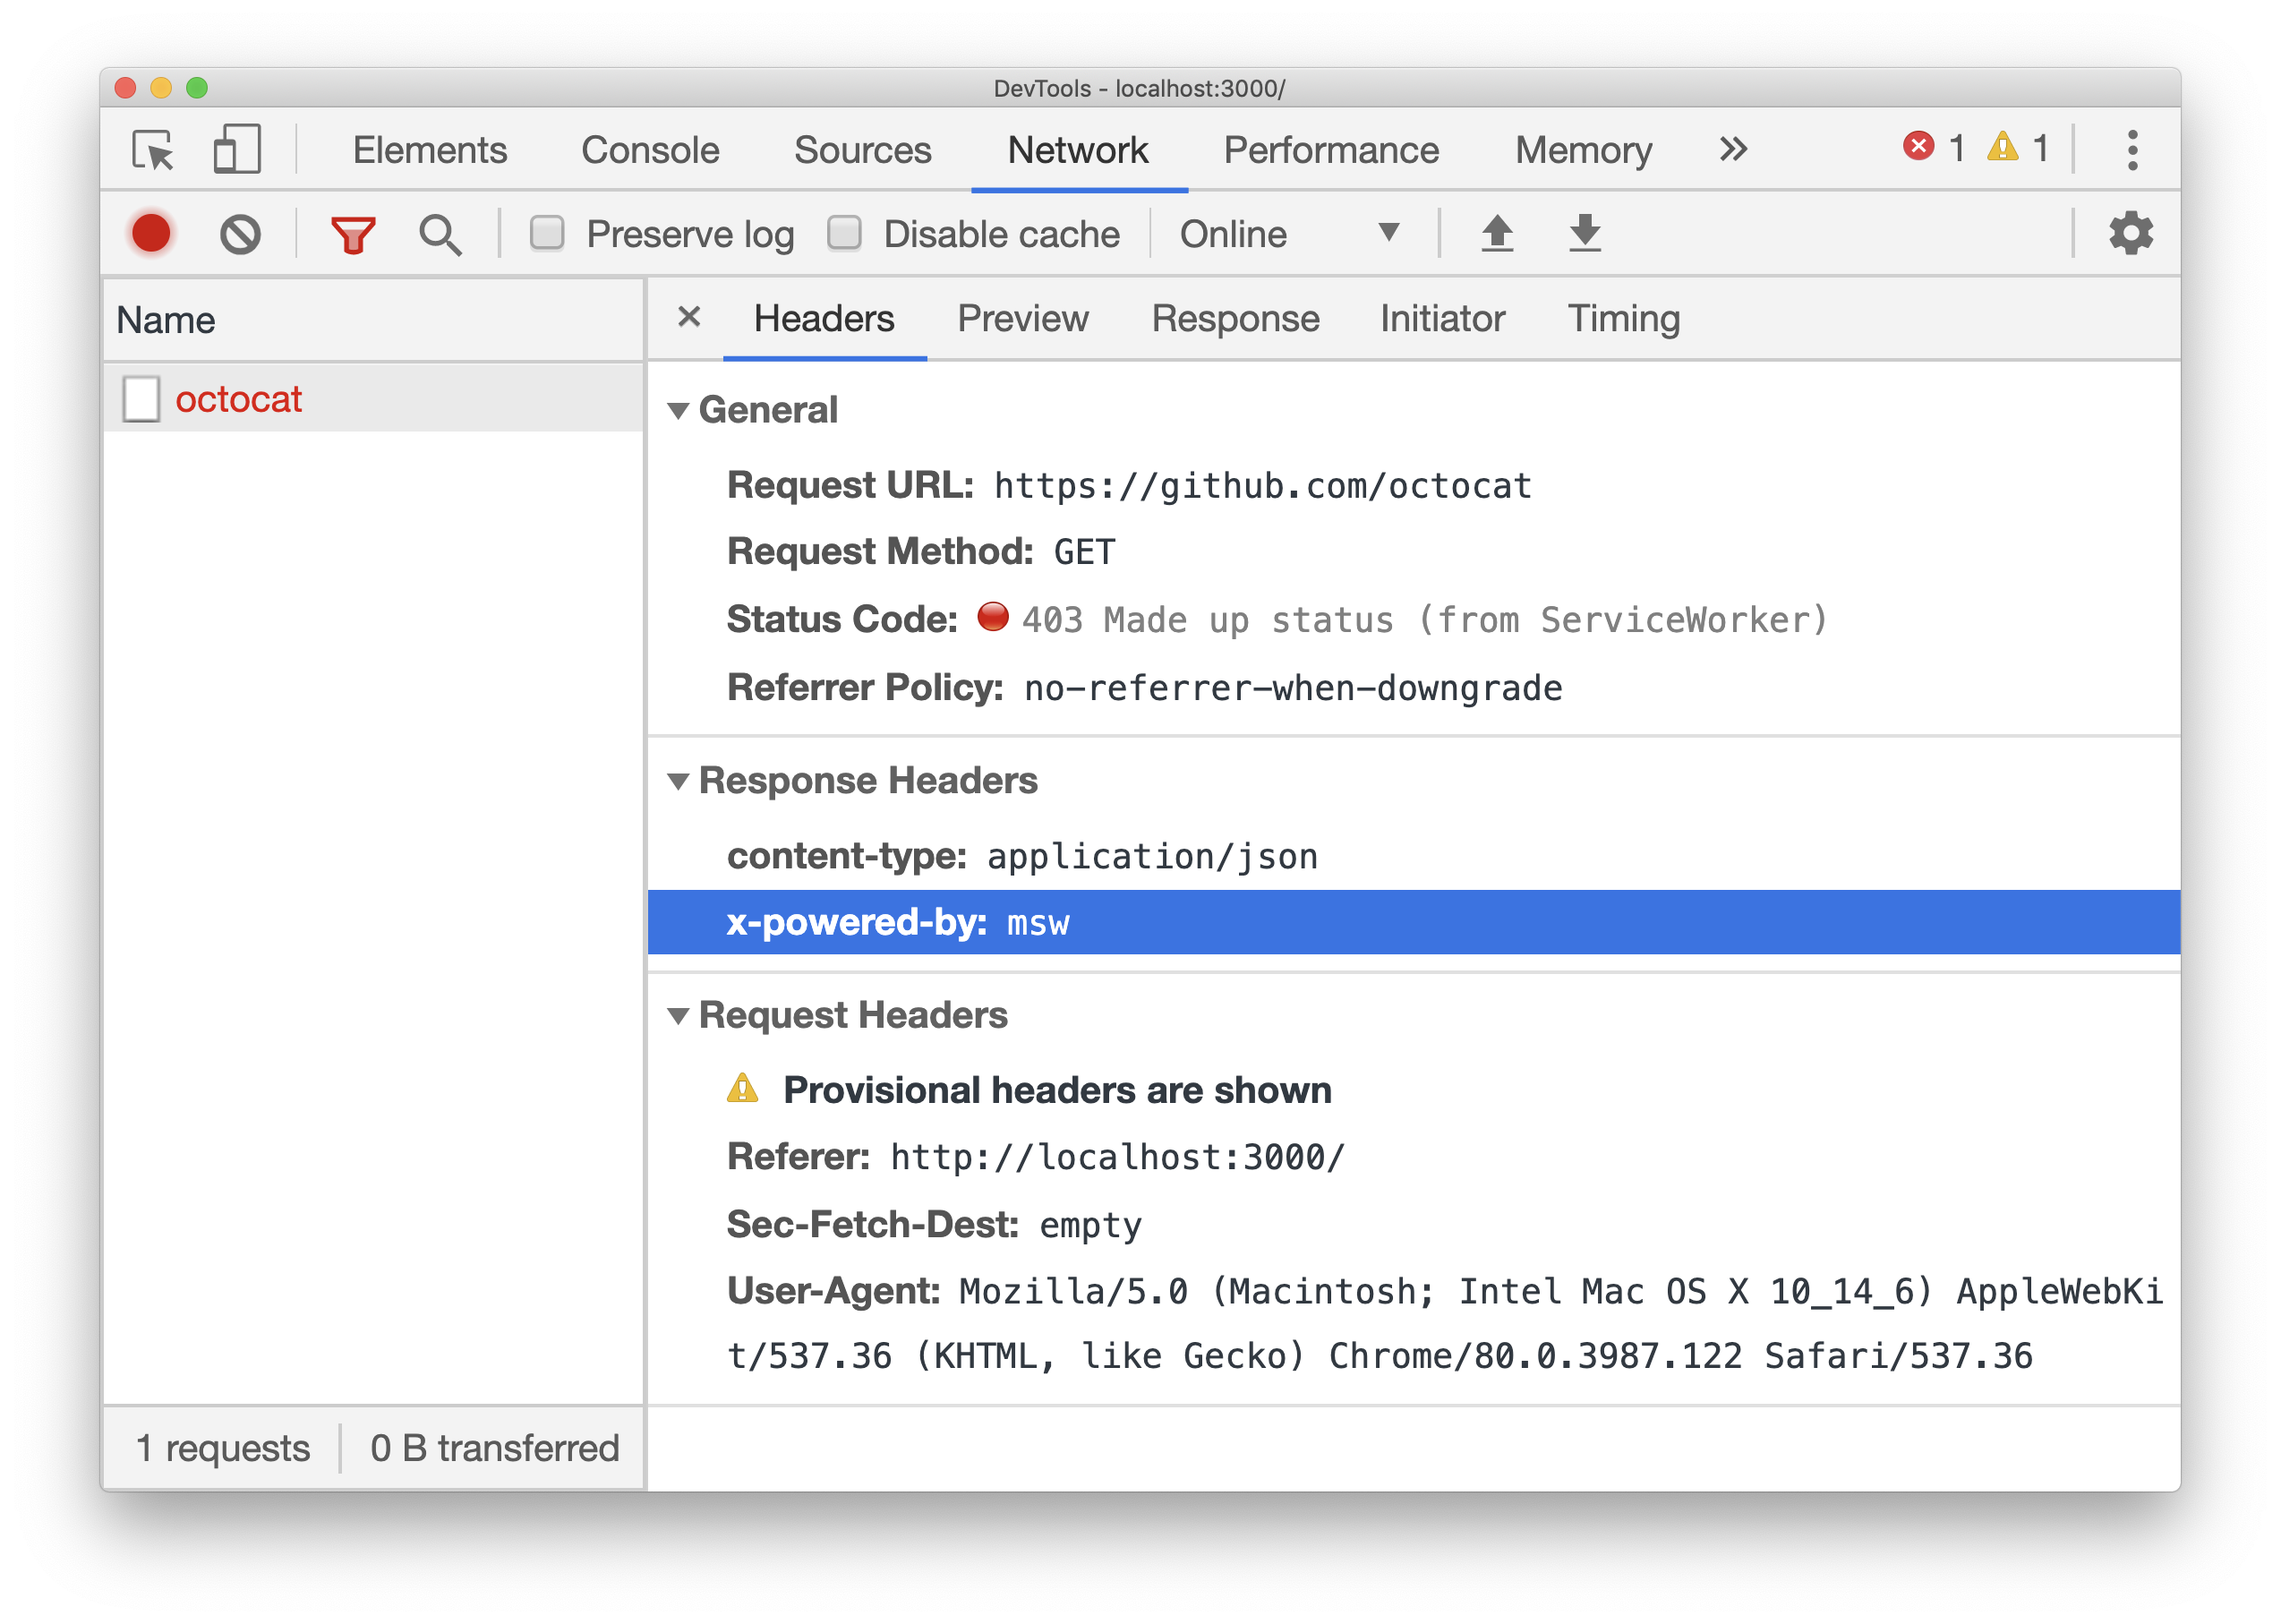
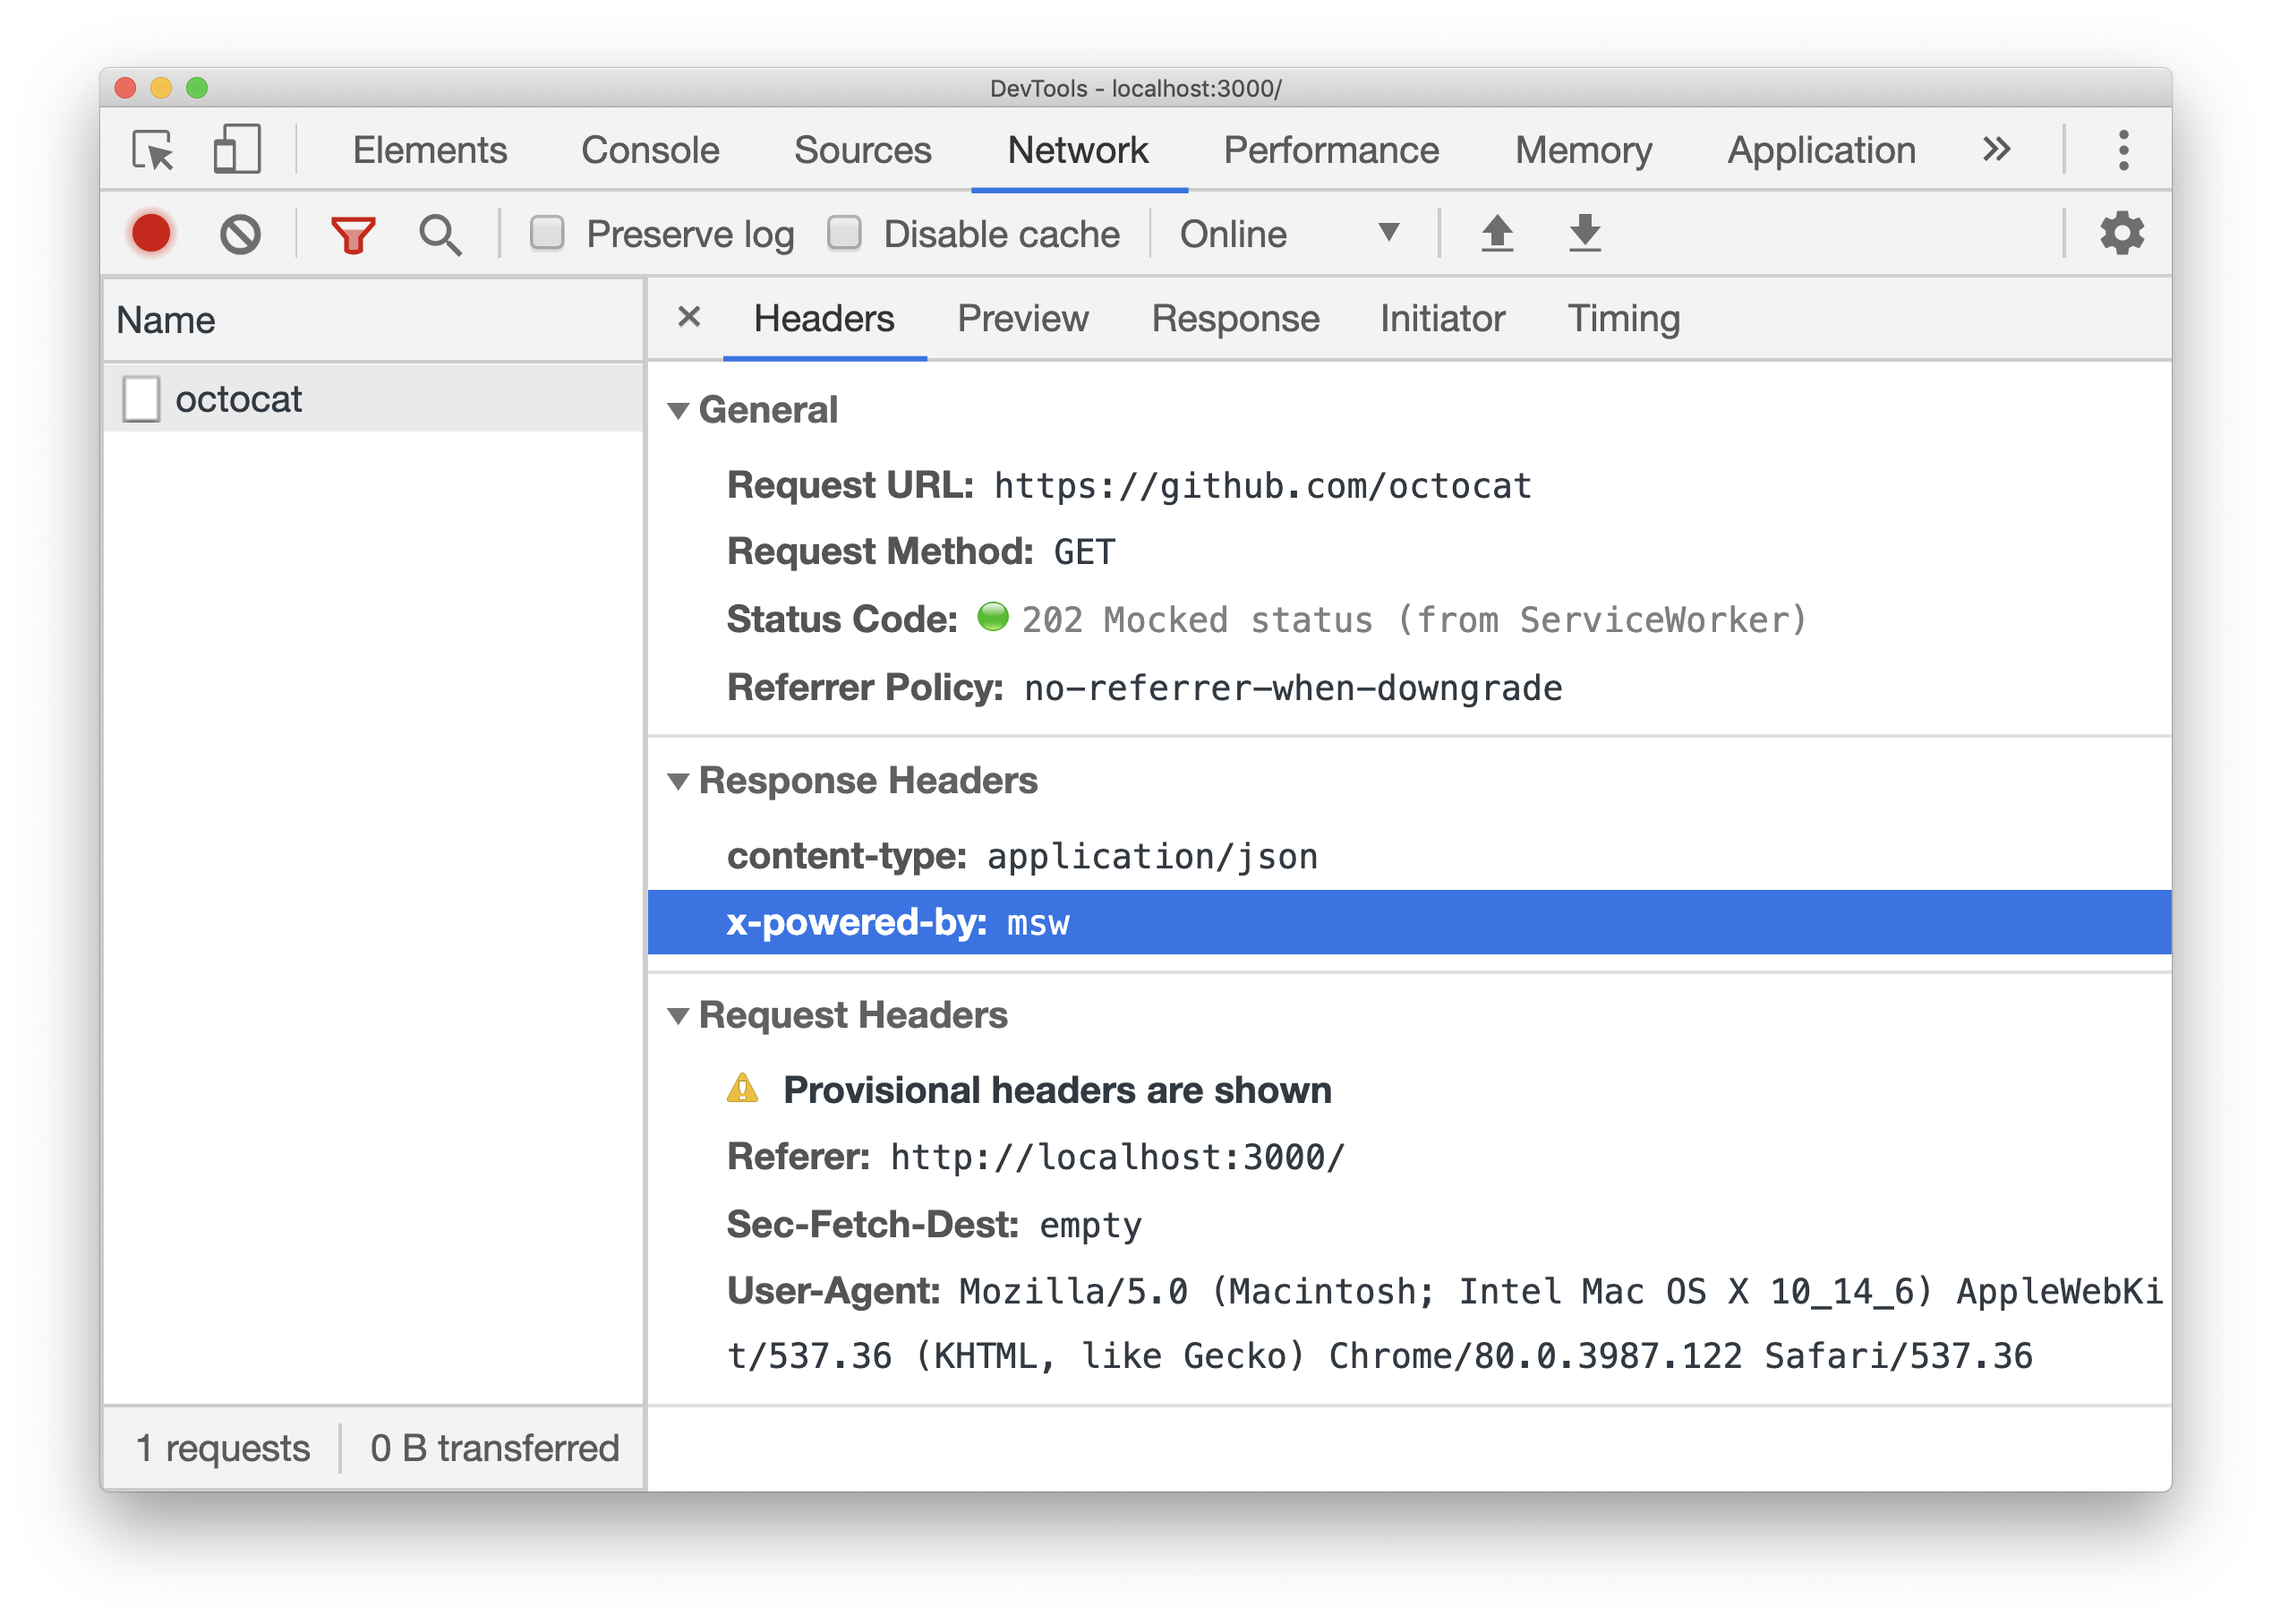
Uses a green status code in the usage example

diff --git a/README.md b/README.md
@@ -56,7 +56,7 @@ const { start } = composeMocks(
   rest.get('https://github.com/octocat', (req, res, ctx) => {
     return res(
       ctx.delay(1500),
-      ctx.status(403, 'Made up status'),
+      ctx.status(202, 'Mocked status'),
       ctx.json({
         message: 'This is a mocked error',
       }),
@@ -79,7 +79,7 @@ Once enabled, any requests matching the defined paths will be intercepted by Ser
 
 ![Chrome DevTools Network screenshot with the request mocked](https://github.com/open-draft/msw/blob/master/media/msw-quick-look-network.png?raw=true)
 
-> Notice the `403 Made up status (from ServiceWorker)` status in the response.
+> Notice the `202 Mocked status (from ServiceWorker)` status in the response.
 
 There is a set of step-by-step tutorials to get you started with mocking the API type you need. Please refer to those tutorials below for more detailed instructions.
 
